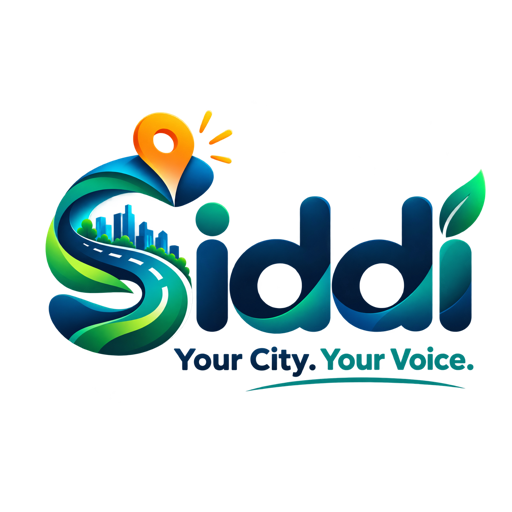
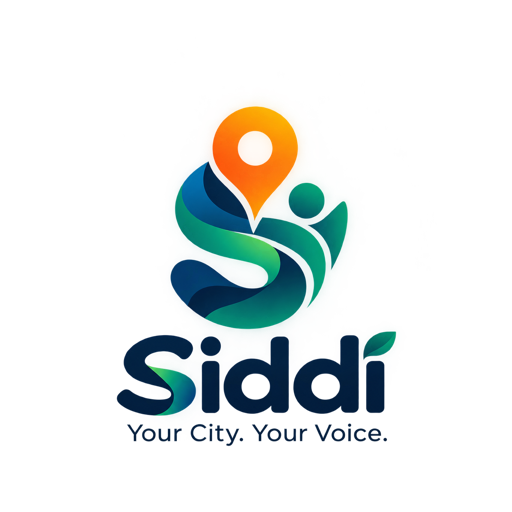
Changes

Changed region(s): [[0.0625, 0.1875, 0.9688, 0.875]]

diff --git a/src/components/civic/AssignmentActions.tsx b/src/components/civic/AssignmentActions.tsx
@@ -11,5 +11,5 @@ export function AssignmentActions({ id, authorityId, state }: { id: string; auth
   async function act(action:'assign'|'accept'|'reject'|'escalate') {
     setBusy(true);try {const result=await supabase.rpc('assign_civic_issue',{_id:id,_authority:action==='assign' ? authority : authorityId ?? authority,_action:action,_reason:reason.trim()});if(result.error)throw result.error;setReason('');toast.success('Internal assignment decision recorded');await qc.invalidateQueries();}catch(e){toast.error(e instanceof Error ? e.message : 'Assignment could not be saved');}finally{setBusy(false);}
   }
-  return <section className="border-t py-5"><h2 className="text-lg font-semibold">Assignment & escalation</h2><p className="mt-2 text-sm">Internal assignment: <strong>{state}</strong></p><p className="mt-1 text-xs text-muted-foreground">Acceptance records a CivicFix staff decision, not acceptance by the government organisation.</p><label className="mt-4 block text-sm">Verified service authority<select aria-label="Assignment authority" className="mt-2 h-10 w-full rounded-lg border bg-card px-3" value={authority} onChange={e=>setAuthority(e.target.value)}><option value="">Select authority</option>{q.data?.authorities.map(a=><option key={a.id} value={a.id}>{a.name}</option>)}</select></label><label className="mt-4 block text-sm">Reason<textarea aria-label="Assignment reason" value={reason} onChange={e=>setReason(e.target.value)} maxLength={1000} className="mt-2 w-full rounded-lg border bg-card p-3" /></label><div className="mt-3 flex flex-wrap gap-2"><Button disabled={busy||!authority||reason.trim().length<5} onClick={()=>act('assign')}>Assign / reassign</Button>{state==='pending'&&<><Button variant="outline" disabled={busy||reason.trim().length<5} onClick={()=>act('accept')}>Accept internally</Button><Button variant="outline" disabled={busy||reason.trim().length<5} onClick={()=>act('reject')}>Reject assignment</Button></>}<Button variant="outline" disabled={busy||reason.trim().length<5||!authorityId} onClick={()=>act('escalate')}>Escalate internally</Button></div></section>;
+  return <section className="border-t py-5"><h2 className="text-lg font-semibold">Assignment & escalation</h2><p className="mt-2 text-sm">Internal assignment: <strong>{state}</strong></p><p className="mt-1 text-xs text-muted-foreground">Acceptance records a Siddi staff decision, not acceptance by the government organisation.</p><label className="mt-4 block text-sm">Verified service authority<select aria-label="Assignment authority" className="mt-2 h-10 w-full rounded-lg border bg-card px-3" value={authority} onChange={e=>setAuthority(e.target.value)}><option value="">Select authority</option>{q.data?.authorities.map(a=><option key={a.id} value={a.id}>{a.name}</option>)}</select></label><label className="mt-4 block text-sm">Reason<textarea aria-label="Assignment reason" value={reason} onChange={e=>setReason(e.target.value)} maxLength={1000} className="mt-2 w-full rounded-lg border bg-card p-3" /></label><div className="mt-3 flex flex-wrap gap-2"><Button disabled={busy||!authority||reason.trim().length<5} onClick={()=>act('assign')}>Assign / reassign</Button>{state==='pending'&&<><Button variant="outline" disabled={busy||reason.trim().length<5} onClick={()=>act('accept')}>Accept internally</Button><Button variant="outline" disabled={busy||reason.trim().length<5} onClick={()=>act('reject')}>Reject assignment</Button></>}<Button variant="outline" disabled={busy||reason.trim().length<5||!authorityId} onClick={()=>act('escalate')}>Escalate internally</Button></div></section>;
 }

diff --git a/src/components/civic/NearbyCaseSummary.tsx b/src/components/civic/NearbyCaseSummary.tsx
@@ -27,7 +27,7 @@ export function NearbyCaseSummary() {
   return <section aria-label="Nearby case summary" className="border-b bg-primary-soft">
     <div className="mx-auto max-w-7xl px-4 py-5 sm:px-6">
       <div className="flex flex-wrap items-center justify-between gap-3"><div><h2 className="flex items-center gap-2 text-lg font-semibold"><MapPin className="h-4 w-4 text-primary" />{label}</h2><p className="mt-1 text-xs text-muted-foreground">{point ? `Within 2 km of your ${approximate ? `approximate point (±${Math.round(location?.accuracy ?? 0)} m)` : 'selected point'}${ward ? ` · Ward ${ward.ward_number} ${ward.name}` : ''}` : locating ? 'Finding your location…' : 'Select your location for local case totals'}</p></div>{point ? <div className="flex items-center gap-2"><Button size="icon" variant="ghost" aria-label="Refresh nearby case totals" disabled={counts.isFetching} onClick={()=>counts.refetch()}><RefreshCw className={`h-4 w-4 ${counts.isFetching?'animate-spin':''}`} /></Button><Button variant="outline" size="sm" onClick={()=>setOpen(true)}>Change</Button></div> : <div className="flex items-center gap-2"><Button onClick={()=>detect()} disabled={locating}>{locating ? 'Finding you…' : 'Use my current location'}</Button><Button variant="outline" onClick={()=>setOpen(true)}>Choose on map</Button></div>}</div>
-      {point && (counts.isPending ? <p role="status" className="mt-4 text-sm">Loading nearby cases…</p> : counts.isError ? <p role="alert" className="mt-4 text-sm">Nearby totals couldn't be loaded. Try refreshing.</p> : <><dl className="mt-4 grid grid-cols-2 gap-4 sm:grid-cols-4">{[{label:'Active cases',value:counts.data.active,tone:'text-primary'},{label:'Resolved cases',value:counts.data.resolved,tone:'text-success'},{label:'Overdue cases',value:counts.data.overdue,tone:'text-warning-foreground'},{label:'Critical active',value:counts.data.critical,tone:'text-destructive'}].map(item=><div key={item.label}><dt className="text-xs text-muted-foreground">{item.label}</dt><dd className={`mt-1 text-2xl font-bold tabular-nums ${item.tone}`}>{item.value}</dd></div>)}</dl><p role="status" className="mt-3 text-xs text-muted-foreground">{counts.data.total === 0 ? 'No CivicFix cases recorded within 2 km yet.' : `${counts.data.total} unique CivicFix cases within 2 km.`} Totals refresh every 15 seconds; merged reports count once.</p></>)}
+      {point && (counts.isPending ? <p role="status" className="mt-4 text-sm">Loading nearby cases…</p> : counts.isError ? <p role="alert" className="mt-4 text-sm">Nearby totals couldn't be loaded. Try refreshing.</p> : <><dl className="mt-4 grid grid-cols-2 gap-4 sm:grid-cols-4">{[{label:'Active cases',value:counts.data.active,tone:'text-primary'},{label:'Resolved cases',value:counts.data.resolved,tone:'text-success'},{label:'Overdue cases',value:counts.data.overdue,tone:'text-warning-foreground'},{label:'Critical active',value:counts.data.critical,tone:'text-destructive'}].map(item=><div key={item.label}><dt className="text-xs text-muted-foreground">{item.label}</dt><dd className={`mt-1 text-2xl font-bold tabular-nums ${item.tone}`}>{item.value}</dd></div>)}</dl><p role="status" className="mt-3 text-xs text-muted-foreground">{counts.data.total === 0 ? 'No Siddi cases recorded within 2 km yet.' : `${counts.data.total} unique Siddi cases within 2 km.`} Totals refresh every 15 seconds; merged reports count once.</p></>)}
     </div>
   </section>;
 }

diff --git a/src/routes/_citizen.index.tsx b/src/routes/_citizen.index.tsx
@@ -8,9 +8,9 @@ import bengaluruPhoto from '@/assets/bengaluru-home.jpg';
 import { NearbyCaseSummary } from '@/components/civic/NearbyCaseSummary';
 export const Route = createFileRoute('/_citizen/')({
   head: () => ({ meta: [
-    {title:'CivicFix Bengaluru — Report a problem. Track the progress.'},
+    {title:'Siddi — Report a problem. Track the progress.'},
     {name:'description',content:'Report a Bengaluru civic problem with a photo, track your case and discover local reports on Civic Map. No citizen login required.'},
-    {property:'og:title',content:'CivicFix Bengaluru — Your city, your voice'},
+    {property:'og:title',content:'Siddi — Your city, your voice'},
     {property:'og:description',content:'Photo reporting, public case histories and Bengaluru ward information in one independent citizen platform.'},
     {property:'og:type',content:'website'},
     {name:'twitter:card',content:'summary'},
@@ -55,7 +55,7 @@ function CitizenHome() {
 
     <section className="mx-auto max-w-7xl px-5 py-10 sm:px-6 sm:py-12">
       <div className="mb-6 flex flex-wrap items-end justify-between gap-4"><div><p className="mb-2 text-xs font-semibold uppercase text-primary">From the community</p><h2 className="text-2xl font-semibold">Latest reported problems</h2></div><Button asChild variant="outline"><Link to="/explore">All reports<ArrowRight className="h-4 w-4" /></Link></Button></div>
-      {recent.isPending ? <p role="status" className="py-8 text-sm text-muted-foreground">Loading recent reports…</p> : recent.isError ? <div role="alert" className="border-y py-6"><p className="text-sm">Recent reports couldn't be loaded.</p><Button className="mt-3" variant="outline" onClick={() => recent.refetch()}>Try again</Button></div> : recent.data.length ? <div className="grid gap-4 md:grid-cols-3">{recent.data.map(issue => <IssueCard key={issue.id} issue={issue} />)}</div> : <div className="flex flex-col items-start justify-between gap-5 border-y py-8 sm:flex-row sm:items-center"><div><h3 className="text-lg font-semibold">Every better street starts with one report.</h3><p className="mt-2 max-w-lg text-sm text-muted-foreground">No CivicFix reports yet. If you spot a local problem, give it a photo, a location and a voice.</p></div><Button asChild><Link to="/report"><Camera className="h-4 w-4" />Be the first to report</Link></Button></div>}
+      {recent.isPending ? <p role="status" className="py-8 text-sm text-muted-foreground">Loading recent reports…</p> : recent.isError ? <div role="alert" className="border-y py-6"><p className="text-sm">Recent reports couldn't be loaded.</p><Button className="mt-3" variant="outline" onClick={() => recent.refetch()}>Try again</Button></div> : recent.data.length ? <div className="grid gap-4 md:grid-cols-3">{recent.data.map(issue => <IssueCard key={issue.id} issue={issue} />)}</div> : <div className="flex flex-col items-start justify-between gap-5 border-y py-8 sm:flex-row sm:items-center"><div><h3 className="text-lg font-semibold">Every better street starts with one report.</h3><p className="mt-2 max-w-lg text-sm text-muted-foreground">No Siddi reports yet. If you spot a local problem, give it a photo, a location and a voice.</p></div><Button asChild><Link to="/report"><Camera className="h-4 w-4" />Be the first to report</Link></Button></div>}
     </section>
   </div>;
 }

diff --git a/src/components/civic/LocationGate.tsx b/src/components/civic/LocationGate.tsx
@@ -80,7 +80,7 @@ export function LocationGate() {
             <div>
               <h1 className="text-xl font-bold">{location.label === 'Current location' ? 'Your location' : location.label}</h1>
               <p className="mt-1 text-sm text-muted-foreground">
-                {ward ? `${ward.name} · Ward ${ward.ward_number}${ward.zone ? ` · ${ward.zone}` : ''}` : wardQuery.isPending ? 'Checking your ward…' : wardQuery.isError ? 'Ward lookup is unavailable right now' : wards.length > 1 ? 'Your point touches a shared ward boundary — staff confirm the ward when you report' : point ? "We're not in your city yet — CivicFix currently serves Bengaluru, and we'd love to reach you soon" : 'Approximate location — refine it from the map anytime'}
+                {ward ? `${ward.name} · Ward ${ward.ward_number}${ward.zone ? ` · ${ward.zone}` : ''}` : wardQuery.isPending ? 'Checking your ward…' : wardQuery.isError ? 'Ward lookup is unavailable right now' : wards.length > 1 ? 'Your point touches a shared ward boundary — staff confirm the ward when you report' : point ? "We're not in your city yet — Siddi currently serves Bengaluru, and we'd love to reach you soon" : 'Approximate location — refine it from the map anytime'}
               </p>
             </div>
           </div>
@@ -90,7 +90,7 @@ export function LocationGate() {
               <div><dt className="text-xs text-muted-foreground">Resolved nearby</dt><dd className="mt-1 text-2xl font-bold tabular-nums text-success">{counts.isPending ? '…' : counts.data?.resolved ?? '—'}</dd></div>
             </dl>
           )}
-          <p className="mt-3 text-xs text-muted-foreground">CivicFix reports within 2 km of your point. No cases yet means yours can be the first.</p>
+          <p className="mt-3 text-xs text-muted-foreground">Siddi reports within 2 km of your point. No cases yet means yours can be the first.</p>
           <Button className="mt-6 w-full" size="lg" onClick={() => setDismissed(true)}>Continue <ArrowRight className="h-4 w-4" /></Button>
         </div>
       </div>
@@ -122,7 +122,7 @@ export function LocationGate() {
         <Button className="mt-4 w-full" size="lg" variant="outline" disabled={!pin || !isInIndia(pin.lat, pin.lng)} onClick={() => { if (pin) select({ ...pin, label: label.trim() || `${pin.lat.toFixed(4)}, ${pin.lng.toFixed(4)}`, method: 'manual' }); }}>
           Confirm this location
         </Button>
-        {pin && !isInIndia(pin.lat, pin.lng) && <p role="alert" className="mt-2 text-sm text-destructive">CivicFix currently serves Bengaluru, India. Pick a point inside the city.</p>}
+        {pin && !isInIndia(pin.lat, pin.lng) && <p role="alert" className="mt-2 text-sm text-destructive">Siddi currently serves Bengaluru, India. Pick a point inside the city.</p>}
       </div>
     </div>
   );

diff --git a/src/components/civic/CivicInfo.tsx b/src/components/civic/CivicInfo.tsx
@@ -63,7 +63,7 @@ export function CivicInfo({lat,lng,category,subcategory,snapshot}:{lat:number;ln
   if(directory.isPending)return <p className="py-4 text-sm text-muted-foreground">Finding your ward and representatives…</p>;
   if(!directory.data)return <div className="py-4"><p className="text-sm">Local information is unavailable.</p><Button variant="outline" onClick={()=>directory.refetch()}>Try again</Button></div>;
   const routing=resolveCivicRouting(directory.data,lat,lng,category,subcategory??undefined);const {ward,route}=routing;
-  if(!ward)return <section className="border-t py-5"><h2 className="text-lg font-semibold">Local responsibility</h2><p className="mt-2 text-sm text-muted-foreground">{routing.reviewReason??'No supported ward matches this point.'} Your report remains available for CivicFix ownership review.</p></section>;
+  if(!ward)return <section className="border-t py-5"><h2 className="text-lg font-semibold">Local responsibility</h2><p className="mt-2 text-sm text-muted-foreground">{routing.reviewReason??'No supported ward matches this point.'} Your report remains available for Siddi ownership review.</p></section>;
   const relevant=(people.data??[]).filter(p=>authorityMatchesWard(p,ward,category));
   const officers=relevant.filter(p=>p.kind==='operational'||p.kind==='leadership');
   const gba=directory.data.authorities.filter(a=>a.phone&&/Greater Bengaluru/i.test(a.name));
@@ -80,6 +80,6 @@ export function CivicInfo({lat,lng,category,subcategory,snapshot}:{lat:number;ln
       {officers.length>0&&<div className="mt-2 grid gap-2">{officers.map(profile)}</div>}
       {city.length>0&&<div className="mt-2 grid min-w-0 gap-2 sm:grid-cols-2">{city.map(a=><a key={a.id} href={`tel:${a.phone}`} className="flex min-w-0 items-center gap-3 rounded-xl border bg-card p-3 hover:bg-secondary"><Landmark className="h-5 w-5 shrink-0 text-primary"/><span className="min-w-0"><span className="block truncate text-sm font-medium">{a.name}</span><span className="text-xs text-primary">{a.phone}</span></span></a>)}</div>}
     </div>
-    <p className="text-[11px] text-muted-foreground">Ward boundary: official GBA snapshot {ward.source_published_at??ward.verified_at} · <a href={ward.source_url} target="_blank" rel="noopener noreferrer" className="text-primary">source</a>. Authority names are indicative; CivicFix is not a government channel.</p>
+    <p className="text-[11px] text-muted-foreground">Ward boundary: official GBA snapshot {ward.source_published_at??ward.verified_at} · <a href={ward.source_url} target="_blank" rel="noopener noreferrer" className="text-primary">source</a>. Authority names are indicative; Siddi is not a government channel.</p>
   </section>;
 }

diff --git a/src/lib/i18n.tsx b/src/lib/i18n.tsx
@@ -20,9 +20,9 @@ const dict = {
     kn: "ಒಮ್ಮೆ ವರದಿ ಮಾಡಿ. ಪ್ರತಿ ಕ್ರಮವನ್ನು ಟ್ರ್ಯಾಕ್ ಮಾಡಿ.",
   },
   heroSub: {
-    en: "Snap a photo of a pothole, broken streetlight or overflowing drain. CivicFix classifies it, routes it, and keeps a public record until it's fixed.",
-    hi: "गड्ढे, खराब स्ट्रीटलाइट या बहती नाली की फोटो लें। CivicFix इसे वर्गीकृत करता है, सही विभाग तक पहुँचाता है और ठीक होने तक सार्वजनिक रिकॉर्ड रखता है।",
-    kn: "ಗುಂಡಿ, ಕೆಟ್ಟ ಬೀದಿದೀಪ ಅಥವಾ ಉಕ್ಕಿ ಹರಿಯುವ ಚರಂಡಿಯ ಫೋಟೋ ತೆಗೆಯಿರಿ. CivicFix ಅದನ್ನು ವರ್ಗೀಕರಿಸಿ, ಸರಿಯಾದ ಇಲಾಖೆಗೆ ಕಳುಹಿಸಿ, ಸರಿಯಾಗುವವರೆಗೆ ಸಾರ್ವಜನಿಕ ದಾಖಲೆ ಇಡುತ್ತದೆ.",
+    en: "Snap a photo of a pothole, broken streetlight or overflowing drain. Siddi classifies it, routes it, and keeps a public record until it's fixed.",
+    hi: "गड्ढे, खराब स्ट्रीटलाइट या बहती नाली की फोटो लें। Siddi इसे वर्गीकृत करता है, सही विभाग तक पहुँचाता है और ठीक होने तक सार्वजनिक रिकॉर्ड रखता है।",
+    kn: "ಗುಂಡಿ, ಕೆಟ್ಟ ಬೀದಿದೀಪ ಅಥವಾ ಉಕ್ಕಿ ಹರಿಯುವ ಚರಂಡಿಯ ಫೋಟೋ ತೆಗೆಯಿರಿ. Siddi ಅದನ್ನು ವರ್ಗೀಕರಿಸಿ, ಸರಿಯಾದ ಇಲಾಖೆಗೆ ಕಳುಹಿಸಿ, ಸರಿಯಾಗುವವರೆಗೆ ಸಾರ್ವಜನಿಕ ದಾಖಲೆ ಇಡುತ್ತದೆ.",
   },
   reportCta: { en: "Report a Problem", hi: "समस्या रिपोर्ट करें", kn: "ಸಮಸ್ಯೆ ವರದಿ ಮಾಡಿ" },
   noLogin: { en: "No sign-up needed", hi: "साइन-अप की ज़रूरत नहीं", kn: "ನೋಂದಣಿ ಅಗತ್ಯವಿಲ್ಲ" },

diff --git a/src/routes/_authenticated/staff.notifications.tsx b/src/routes/_authenticated/staff.notifications.tsx
@@ -5,7 +5,7 @@ import { supabase } from "@/integrations/supabase/client";
 import { timeAgo } from "@/lib/civic";
 
 export const Route = createFileRoute("/_authenticated/staff/notifications")({
-  head: () => ({ meta: [{ title: "Notifications & handoffs — CivicFix" }, { name: "description", content: "Every notification CivicFix actually recorded, with honest delivery states." }, { property: "og:title", content: "Notifications & handoffs — CivicFix" }, { property: "og:description", content: "Every notification CivicFix actually recorded, with honest delivery states." }, { property: "og:type", content: "website" }, { name: "twitter:card", content: "summary" }, { name: "robots", content: "noindex" }] }),
+  head: () => ({ meta: [{ title: "Notifications & handoffs — Siddi" }, { name: "description", content: "Every notification Siddi actually recorded, with honest delivery states." }, { property: "og:title", content: "Notifications & handoffs — Siddi" }, { property: "og:description", content: "Every notification Siddi actually recorded, with honest delivery states." }, { property: "og:type", content: "website" }, { name: "twitter:card", content: "summary" }, { name: "robots", content: "noindex" }] }),
   component: NotificationsPage,
 });
 
@@ -40,7 +40,7 @@ function NotificationsPage() {
     <div className="mx-auto max-w-5xl space-y-6 p-4 sm:p-8">
       <div>
         <h1 className="flex items-center gap-2 text-3xl font-bold"><Bell className="h-7 w-7 text-primary" /> Notifications & Handoffs</h1>
-        <p className="mt-1 text-muted-foreground">What CivicFix actually did for each case — in-app updates, and external government channels only when one is genuinely configured. "Not configured" means no message was sent to any outside office.</p>
+        <p className="mt-1 text-muted-foreground">What Siddi actually did for each case — in-app updates, and external government channels only when one is genuinely configured. "Not configured" means no message was sent to any outside office.</p>
       </div>
       {q.error && <p className="rounded-xl bg-destructive-soft p-4 text-sm text-destructive">{(q.error as Error).message}</p>}
       {q.data?.length === 0 && (

diff --git a/src/routes/_authenticated/staff.overdue.tsx b/src/routes/_authenticated/staff.overdue.tsx
@@ -8,7 +8,7 @@ import { categoryById, timeAgo } from "@/lib/civic";
 import { Button } from "@/components/ui/button";
 
 export const Route = createFileRoute("/_authenticated/staff/overdue")({
-  head: () => ({ meta: [{ title: "Overdue & escalated cases — CivicFix" }, { name: "description", content: "Cases past their promised completion date and escalated cases needing supervisor attention." }, { property: "og:title", content: "Overdue & escalated cases — CivicFix" }, { property: "og:description", content: "Cases past their promised completion date and escalated cases needing supervisor attention." }, { property: "og:type", content: "website" }, { name: "twitter:card", content: "summary" }, { name: "robots", content: "noindex" }] }),
+  head: () => ({ meta: [{ title: "Overdue & escalated cases — Siddi" }, { name: "description", content: "Cases past their promised completion date and escalated cases needing supervisor attention." }, { property: "og:title", content: "Overdue & escalated cases — Siddi" }, { property: "og:description", content: "Cases past their promised completion date and escalated cases needing supervisor attention." }, { property: "og:type", content: "website" }, { name: "twitter:card", content: "summary" }, { name: "robots", content: "noindex" }] }),
   component: OverduePage,
 });
 
@@ -77,7 +77,7 @@ function OverduePage() {
     <div className="mx-auto max-w-5xl space-y-8 p-4 sm:p-8">
       <div>
         <h1 className="text-3xl font-bold">Overdue & Escalated</h1>
-        <p className="text-muted-foreground">Cases that passed the completion date staff promised citizens, and cases escalated for supervisor attention. Refreshes every 30 seconds. These are CivicFix follow-up targets, not official government deadlines.</p>
+        <p className="text-muted-foreground">Cases that passed the completion date staff promised citizens, and cases escalated for supervisor attention. Refreshes every 30 seconds. These are Siddi follow-up targets, not official government deadlines.</p>
       </div>
       {q.error && <p className="rounded-xl bg-destructive-soft p-4 text-sm text-destructive">{(q.error as Error).message}</p>}
 

diff --git a/src/routes/_citizen.issues.$ref.tsx b/src/routes/_citizen.issues.$ref.tsx
@@ -21,9 +21,9 @@ import { getReportPhoto } from '@/lib/report-media.functions';
 export const Route = createFileRoute("/_citizen/issues/$ref")({
   head: ({ params }) => ({
     meta: [
-      { title: `Issue ${params.ref} — CivicFix` },
+      { title: `Issue ${params.ref} — Siddi` },
       { name: "description", content: `Public status, location and full action history for civic issue ${params.ref}.` },
-      { property: "og:title", content: `Civic issue ${params.ref} — CivicFix` },
+      { property: "og:title", content: `Civic issue ${params.ref} — Siddi` },
       { property: "og:description", content: "Follow this infrastructure issue from report to resolution." },
       { property: "og:type", content: "article" },
       { name: "twitter:card", content: "summary" },
@@ -196,7 +196,7 @@ function IssuePage() {
           <div className="divide-y rounded-2xl border bg-card">
             <Row icon={<MapPin className="h-4 w-4" />} label="Location">{i.landmark || `${i.lat.toFixed(5)}, ${i.lng.toFixed(5)}`}</Row>
             <Row icon={<Building2 className="h-4 w-4" />} label="Recorded ownership">{i.department ?? "Ownership review pending"}<span className="block text-xs text-muted-foreground">Internal record — not an official referral</span></Row>
-            <Row icon={<CalendarClock className="h-4 w-4" />} label="CivicFix review target">
+            <Row icon={<CalendarClock className="h-4 w-4" />} label="Siddi review target">
               {i.sla_due_at ? new Date(i.sla_due_at).toLocaleDateString("en-IN", { dateStyle: "medium" }) : "—"}
               <span className="block text-xs text-muted-foreground">{SEVERITY_META[i.severity as Severity].label} internal target — not a government commitment</span>
             </Row>

diff --git a/src/components/civic/WardLeaderboard.tsx b/src/components/civic/WardLeaderboard.tsx
@@ -19,8 +19,8 @@ export function WardLeaderboard() {
   const totals = all.reduce((s, r) => ({ reports: s.reports + r.reports, unique: s.unique + r.unique_issues, open: s.open + r.unresolved, done: s.done + r.resolved }), { reports: 0, unique: 0, open: 0, done: 0 });
   return <section className="border-t p-4">
     <h2 className="flex items-center gap-2 font-semibold"><Trophy className="h-4 w-4 text-primary" />Ward leaderboard</h2>
-    <p className="text-xs text-muted-foreground">{all.length} of {wards.length} wards have CivicFix reports · saved CivicFix data only</p>
-    {counts.isError ? <p className="mt-3 text-sm">Rankings could not load.</p> : rows.length === 0 ? <p className="mt-3 text-sm text-muted-foreground">No ward has a CivicFix report yet. Rankings appear once citizens report.</p> : <>
+    <p className="text-xs text-muted-foreground">{all.length} of {wards.length} wards have Siddi reports · saved Siddi data only</p>
+    {counts.isError ? <p className="mt-3 text-sm">Rankings could not load.</p> : rows.length === 0 ? <p className="mt-3 text-sm text-muted-foreground">No ward has a Siddi report yet. Rankings appear once citizens report.</p> : <>
       <div className="mt-3 grid grid-cols-4 gap-2 text-center text-[11px]">
         <div className="rounded-lg bg-muted p-2"><b className="block text-base">{totals.reports}</b>Reports</div>
         <div className="rounded-lg bg-primary/10 p-2"><b className="block text-base">{totals.unique}</b>Unique issues</div>

diff --git a/src/routes/auth.tsx b/src/routes/auth.tsx
@@ -10,9 +10,9 @@ import { BackButton } from "@/components/civic/BackButton";
 export const Route = createFileRoute("/auth")({
   head: () => ({
     meta: [
-      { title: "Staff sign in — CivicFix" },
-      { name: "description", content: "Sign in to the CivicFix staff workspace to manage and resolve civic issues." },
-      { property: "og:title", content: "Staff sign in — CivicFix" },
+      { title: "Staff sign in — Siddi" },
+      { name: "description", content: "Sign in to the Siddi staff workspace to manage and resolve civic issues." },
+      { property: "og:title", content: "Staff sign in — Siddi" },
       { property: "og:description", content: "Workspace for officials and field teams." },
       { property: "og:type", content: "website" },
       { name: "twitter:card", content: "summary" },
@@ -70,7 +70,7 @@ function AuthPage() {
           <h1 className="text-4xl font-bold">The workspace for people who fix cities.</h1>
           <p className="opacity-75">Triage reports, assign ownership, record evidence and keep every citizen informed — with a full audit trail.</p>
         </div>
-        <p className="text-xs opacity-50">Access is granted by your CivicFix administrator.</p>
+        <p className="text-xs opacity-50">Access is granted by your Siddi administrator.</p>
       </div>
       <div className="flex items-center justify-center p-6">
         <div className="w-full max-w-sm space-y-6">

diff --git a/src/components/civic/CaseProgress.tsx b/src/components/civic/CaseProgress.tsx
@@ -35,7 +35,7 @@ export function StaffResponse({ c }: { c: Ack }) {
     return (
       <section className="rounded-2xl border border-dashed bg-card p-5">
         <p className="text-sm font-semibold">Waiting for the team to acknowledge</p>
-        <p className="mt-1 text-sm text-muted-foreground">Your report is saved in the CivicFix staff queue. When a team member acknowledges it, their response and an estimated completion date will appear here.</p>
+        <p className="mt-1 text-sm text-muted-foreground">Your report is saved in the Siddi staff queue. When a team member acknowledges it, their response and an estimated completion date will appear here.</p>
       </section>
     );
   }
@@ -46,7 +46,7 @@ export function StaffResponse({ c }: { c: Ack }) {
         <span className="grid h-10 w-10 shrink-0 place-items-center rounded-full bg-primary text-primary-foreground"><MessageSquareQuote className="h-5 w-5" /></span>
         <div className="min-w-0">
           <p className="text-xs font-bold uppercase tracking-wide text-primary">Response from the team</p>
-          <p className="mt-0.5 font-semibold">{c.acknowledged_by_label ?? "CivicFix staff"}</p>
+          <p className="mt-0.5 font-semibold">{c.acknowledged_by_label ?? "Siddi staff"}</p>
           <p className="text-xs text-muted-foreground">Acknowledged {fmt(c.acknowledged_at)}</p>
         </div>
       </div>
